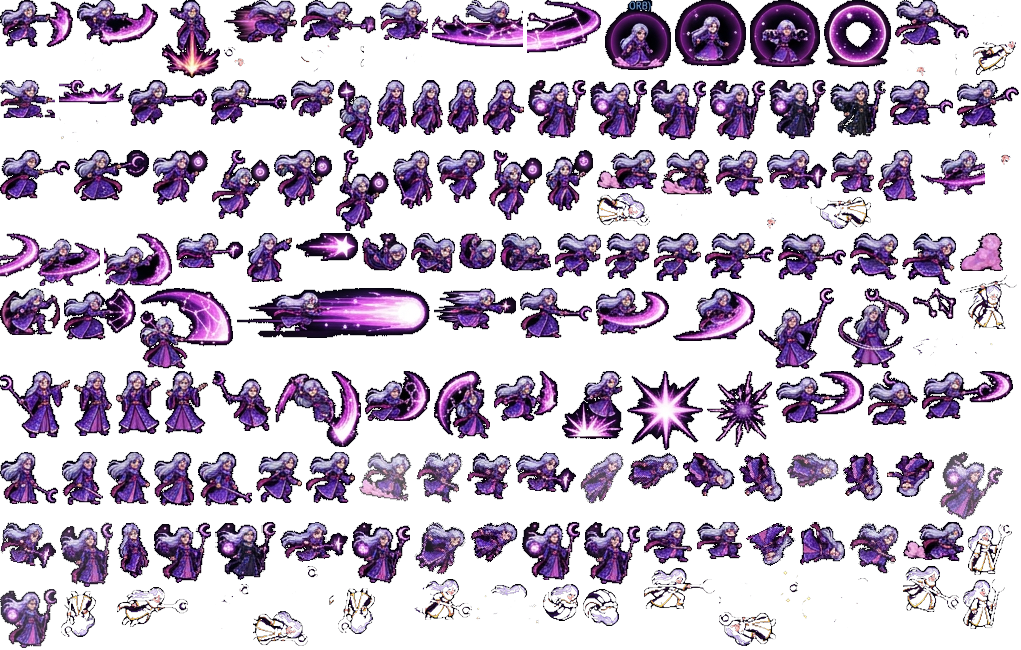
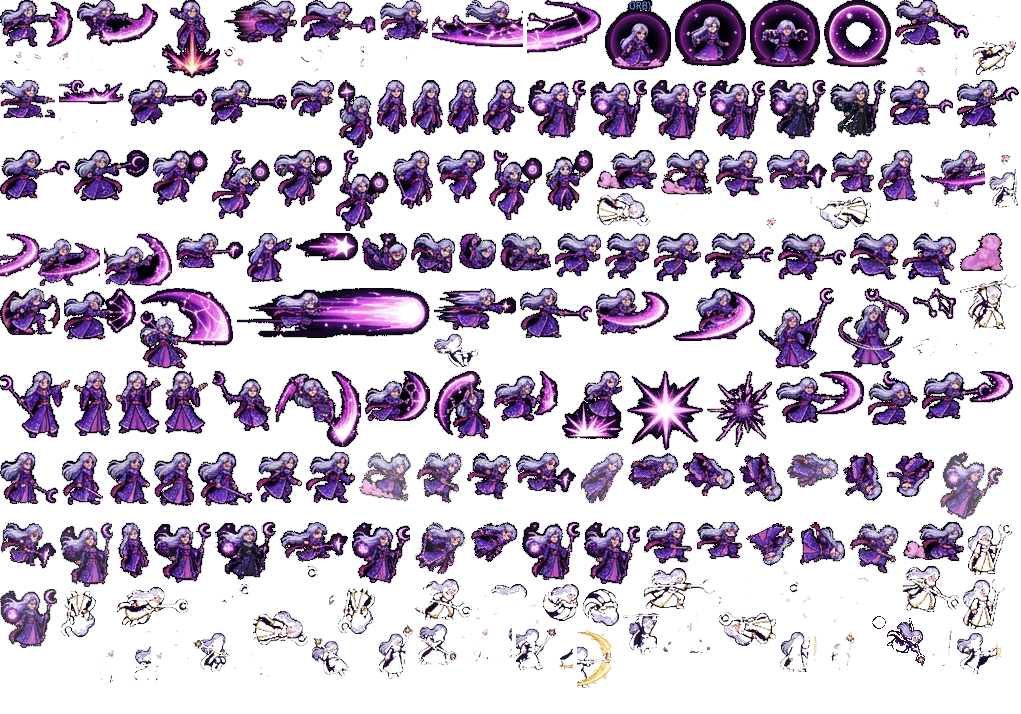
Finish the generated-frame pass for the heavy attacks on all five fighters
J5's queue stopped at Grim and Valor when the image budget ran out mid-round.
It is finished: Astra, Vesper and Rook have injected dsmash / ssmash / nair
rows too, so every fighter now plays four cells for the dash attack, the dash,
both rolls, both smashes and the neutral air instead of the 1-2 the concept
sheets drew.

Worst-case frame widths collapse with the merged strips they replace -- Grim's
down smash 232px -> 48px (closing H10), Valor's 168px -> 77px, Rook's side
smash 166px -> 51px -- so those moves get art-derived hitboxes where they
previously fell back to the authored rectangle.

slice_rows.py also stops mistaking a smoke puff for a pose: the body/effect
split picked the biggest blob, and Vesper's recovery frame is mostly the smoke
he stepped out of, which would have painted the fighter into the effect layer
and measured the frame off a cloud. A frame whose biggest blob is under 55% of
its cell height now stays one baked tile.

animtest 28, simtest 34, atlascheck 14, cloudtest 15 -- green.

diff --git a/SmashDuels/tools/slice_rows.py b/SmashDuels/tools/slice_rows.py
@@ -321,7 +321,17 @@ def parts_of(mask, w, box, img_px):
                     op[xx - bx0, yy - by0] = tuple(img_px[xx, yy][:3]) + (255,)
         return out, (bx0, by0, bx1, by1)
 
-    return crop(body), crop(fx)
+    # The largest blob is the figure -- unless it is not a figure at all.  A body spans
+    # most of its cell's height; a smoke puff does not.  Vesper's recovery frame is
+    # mostly the smoke he stepped out of, and that puff is a bigger blob than the
+    # crouching ninja beside it, so trusting area alone would make the smoke the body:
+    # the fighter would be painted into the effect layer and faded in by vfxGate, and
+    # the row would measure its hitbox off a cloud.  When the biggest blob is too flat
+    # to be a pose, keep the frame as one baked tile -- which is what the roster rows
+    # that never needed a split already are.
+    if st[body_i]['bbox'][3] - st[body_i]['bbox'][1] < 0.55 * (y1 - y0):
+        return [(None, (x0, y0, x1, y1))]
+    return [g for g in (crop(body), crop(fx)) if g]
 
 
 def anchor_x(mask, w, box):
@@ -446,9 +456,15 @@ def main():
         wide = []
         sheet_px = sheet.load()
         for b in ink:
-            groups = [g for g in parts_of(mask, sw, b, sheet_px) if g]
+            groups = parts_of(mask, sw, b, sheet_px)
             if not groups:
                 sys.exit('%s.%s: a cell lost all its ink' % (args.key, name))
+            if groups[0][0] is None:
+                # too flat to split: the whole cell is one baked tile
+                box = groups[0][1]
+                w0 = max(4, int(round((box[2] - box[0]) * kr)))
+                h0 = max(4, int(round((box[3] - box[1]) * kr)))
+                groups = [(sheet.crop(box).convert('RGBA').resize((w0, h0), Image.Resampling.LANCZOS), box)]
             body_img, body_box = groups[0]
             if len(groups) > 1:
                 # an effect that reaches below the ground line is floor debris; the

diff --git a/SmashDuels/game/BUGS.md b/SmashDuels/game/BUGS.md
@@ -127,8 +127,9 @@ Status legend: [ ] open · [x] fixed · [~] verified
 - [x] J2. **Three grab bugs the travel fix exposed** — once bodies integrate during an action, `Match.hitFighter` launched the victim on the *first pummel* because it ignored its own `pummel`/`noLaunch` flags (so the grab ended itself); `landOn` overwrote `holding` and dropped a carried fighter the instant it landed under them; and the grab pass only validated `grabbing → grabbedBy`, so a grabber KO'd mid-hold left its victim frozen in `grabbed` for the rest of the match (a 104-frame 4-player pile-up, and the reason one of the vs-4 tests looked flaky). Pummels damage without disturbing the hold, a landing grab keeps its cargo, and both link directions are checked every frame. `simtest` gained a `grab:` case for the pummel and a `dash:` group that asserts every rush special covers 45–190% of the distance its own data promises.
 - [x] J3. **The dash attack had no animation of its own** — `MOVE_ANIM.dashattack` pointed at `stilt`, the *side tilt* row, whose third cell is a 116–232px merged filmstrip: a lunge drawn as one squashed panorama of the wind-up, the blow and the recovery on top of each other. That is the whole complaint. See J5.
 - [x] J4. **Items were drawn as placeholder rectangles** — `drawItemIcon` was a `switch` of `fillRect`/`arc` calls (a "beam sword" was a 4px pale bar), and both a held item and a resting one were centred on the item's flat 30×30 collision box, so a sword floated half-buried in the deck and a held bat sat at a fixed 22px that only suited one fighter in the roster. There is now real art: 22 sprites generated on a magenta field, sliced by `tools/slice_items.py` (border flood to find the field, keep every region the field cannot reach, 1px erode, tight crop, 2× bitmaps so the browser downsamples instead of upscaling), a manifest of drawn sizes, and anchors that respect the difference between resting and held (J6). The vector icons stay as the fallback when the art is missing.
-- [x] J5. **New sprite frames, generated and injected** — `tools/slice_rows.py` adds rows to an atlas from a generated pose sheet: split by ink mass (an effect painted free of its figure gets absorbed into the pose it belongs to instead of becoming its own cell), one shared scale per row so a fighter cannot change size mid-animation, the baked glow keyed into a separate overlay tile so `vfxGate` fades it, packed into space no referenced tile occupies. 20 rows across the roster are now 4 cells where the concept sheets drew 2 (or none): `dashattack` (new), `dash`, `rollfwd`, `rollback` for all five fighters, plus `dsmash`, `ssmash`, `nair` for Grim and Valor — Grim's down smash was the last 232px merged strip (§H10) and is now four poses. Anims carrying a separate effect layer went 8 → 32, which is what the vfx tests count. §I9's "no new spritesheet was needed" is retracted for the *fluidity* half: it was true of the judder, but a 2-cell row cannot be made smooth by interpolation, and the user was right that this needed drawn frames.
+- [x] J5. **New sprite frames, generated and injected** — `tools/slice_rows.py` adds rows to an atlas from a generated pose sheet: split by ink mass (an effect painted free of its figure gets absorbed into the pose it belongs to instead of becoming its own cell), one shared scale per row so a fighter cannot change size mid-animation, the baked glow keyed into a separate overlay tile so `vfxGate` fades it, packed into space no referenced tile occupies. 45 rows across the roster now carry 4 cells where the concept sheets drew 1–2 (or none): `dashattack` (new) + `dash` + `rollfwd` + `rollback` + `dsmash` + `ssmash` + `nair`, for all five fighters. Worst-case frame widths collapsed with them — Valor's `dsmash` 168px → 77px, Grim's 232px → 48px (that was §H10, now closed), Rook's `ssmash` 166px → 51px — and anims carrying a separate effect layer went 8 → 32, which is what the vfx tests count. §I9's "no new spritesheet was needed" is retracted for the *fluidity* half: it was true of the judder, but a 2-cell row cannot be made smooth by interpolation, and the user was right that this needed drawn frames.
+- [x] J5b. **The split must not mistake a puff for a pose** — keying the glow out means picking the biggest blob as "the body", and Vesper's `dsmash` recovery frame is mostly the smoke he stepped out of: a puff wider than the crouching ninja beside it. That would have painted the *fighter* into the effect layer (so he faded in with the glow) and measured the frame's geometry off a cloud. A pose spans most of its cell's height and a puff does not, so a frame whose biggest blob is under 55% of the cell height stays one baked tile, exactly like the roster rows that never needed splitting.
 - [x] J6. **Anchors, from the atlas's own contract** — a frame's `(ax, ay)` is where its feet go, so an injected tile is planted with `ay` on its last ink row and `ax` at the median of the bottom band (the support foot), not the ink bbox centre: a lunge with a flame trail painted behind it would otherwise have thrown the whole figure forward of the feet it stands on. `atlascheck` asserts the row baseline stays put (`ay − h ∈ [−2, 3]` for ≥80% of a grounded row) and now also that **no two referenced tiles overlap** — the first version of the packer offered free rects it had never subtracted from the existing art, so a new tile was pasted on top of somebody's idle pose while every geometry test still passed.
 - [x] J7. **`rowDir` read `dashattack` as a downward blow** — the direction table matched row-name prefixes, and `dashattack` starts with the letter the tilts and smashes use for "down", so the hitbox grew at the fighter's feet and never toward the drawn fist (art reached 105px, box stopped at 66px). Rows the engine ships are now named outright with the prefix rules as the fallback. This was latent the whole time; it only became visible once the move had its own art to follow.
 - [x] J8. **Where a held item sits** — `22px out, 62px up` did not follow scale, and it was multiplied by `f.scale` *again* on top of a hurtbox that is already scaled, which put Grim's sword on top of his head. The hand point is derived from the holder's own hurtbox (0.60 of its height, just past its front edge), the item swings through the holder's attack and sags at rest, and it draws after the body — an item in hand that renders behind the fighter holding it just looked like nothing at all.
-- [ ] J9. **Open, in this area**: Astra, Vesper and Rook keep their old `dsmash`/`ssmash`/`nair` rows (the generated-frame queue was cut off by an image budget mid-round — one `slice_rows.py` run per fighter plus one sheet each finishes it), `spotdodge` is still 2 cells on every sheet, and Grim's dash attack now reaches 174px because the hitbox follows the drawn flame arc within its cap: same damage, same knockback, same startup, but it is a longer poke than the authored rectangle was. If that is too generous, the art should shrink, not the numbers.
+- [ ] J9. **Open, in this area**: `spotdodge` is still 2 cells on every sheet (it reads fine — it is a two-beat move with a ghost on the first frame), Rook's `jab` is 3 cells where everyone else has 4, and Grim's dash attack now reaches 174px because the hitbox follows the drawn flame arc within its cap: same damage, same knockback, same startup, but it is a longer poke than the authored rectangle was. If that is too generous, the art should shrink, not the numbers. Anything still thin is one `slice_rows.py` run and one generated sheet away from four frames.

diff --git a/SmashDuels/game/README.md b/SmashDuels/game/README.md
@@ -62,7 +62,9 @@ Where a row is *short* rather than merged — the sheets only drew two dash fram
 frames, and no dash-attack row at all — re-cutting cannot help, so the frames are drawn:
 `tools/slice_rows.py` takes a generated sheet of poses on a flat magenta field, splits it by
 ink mass (rows, then cells), scales a whole row to that fighter's reference height, keys its
-baked effect into a separate overlay tile so `vfxGate` can still fade it, packs the tiles into
+baked effect into a separate overlay tile so `vfxGate` can still fade it — but leaves the
+frame as one tile when the biggest blob in it is too flat to be a pose, because a smoke puff
+that happens to be wider than the ninja beside it is not the body — packs the tiles into
 space the atlas is not already using (growing the canvas if there is none) and rewrites the
 row in the JSON.  Idempotent per row, and `--key grim --revert` restores the atlas.
 
